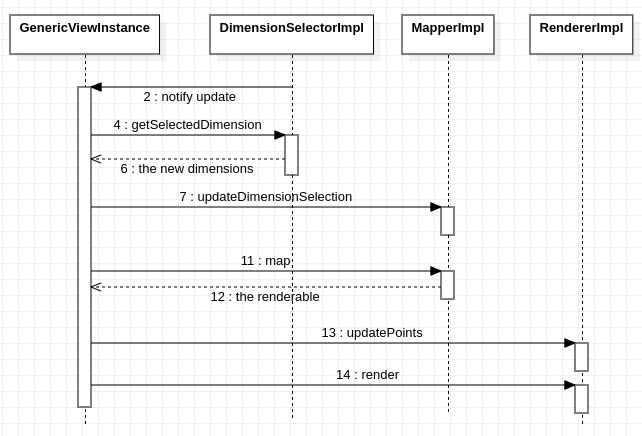
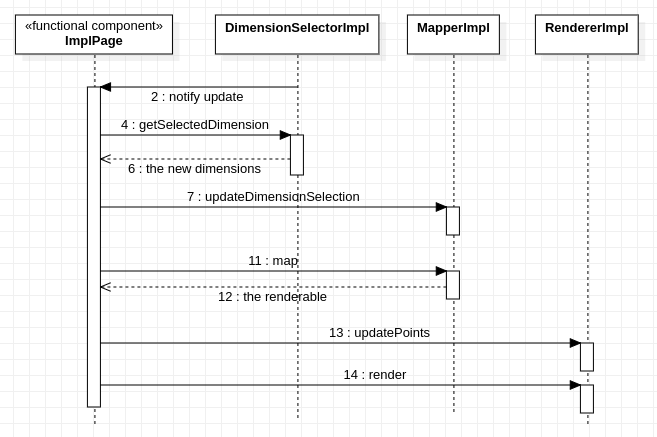
update importanti specifica architetturale

diff --git a/documenti/Specifica_Architetturale/sezioni/architettura.tex b/documenti/Specifica_Architetturale/sezioni/architettura.tex
@@ -58,18 +58,20 @@ la nostra architettura risulta essere standard, senza perdere di flessibilità.
   \caption{Dimostrazione di composizione generica}
 \end{figure}
 
-Il view composer date delle higher-order functions in grado di costruire i vari
-componenti necessari, le preferenze, le dimensioni, un riferimento al dataset e
-un riferimento al transformer sarà in grado di posizionare tutti i componenti
-necessari per l'intreazione con l'utente ed effettuare il rendering della vista
-e di orchestrarli quando avviene un cambiamento.
+Questo permette di riutilizzare al massimo tutta la logica comune (grazie al fatto
+che le varie componenti implementano tutte una interfaccia) non si è deciso di usare
+il pattern \texttt{TemplateMethod} in quanto i componenti di react devono essere
+funzioni (I class components sono deprecati).
+
+Risulta estremamente flessibile anche nel caso si voglia cambiare anche un solo
+componente ad esempio fornire un dimension selector sullo ScatterPlot.
 
 \begin{figure}[h!]
   \centering
   \includegraphics[scale=0.55]{../../assets/classi_uml/interazione_gw.png}
   \caption{Dimostrazione dell'orchestrazione dell' aggiornamento delle
-    dimensioni da parte di generic view, ovviamente per semplcità è stato
-    trattato dimension selector come un unico componente}
+    dimensioni da parte di generic view, ovviamente per semplcità sono riportate
+    le solo i modelli e non anche le loro view e viewmodel.}
 \end{figure}
 
 \subsection{Stato dell' applicazione}
@@ -86,16 +88,39 @@ funzioni che trasformano un campo di una entry del dataset in qualcosa che il
 renderer è in grado di disegnare). \\
 Esso espone 2 interfacce così da segregarne l'uso, una è destinata alla ricerca di
 trasformazioni (TransformationQuerryable) e l'altra al riferimento delle stesse tramite
-signature (TransformationProvider).
-\begin{figure}[h!]
+signature (TransformationProvider). \\
+\begin{figure}[H]
   \centering
   \includegraphics[scale=0.65]{../../assets/classi_uml/modeltransfomer.png}
 \end{figure}
+Questo modella il \texttt{Repository} che si occupa di eseguire query
+basate su constraints (e.s. Trasformazioni che possono trasformare un intero
+in un colore) quindi \\ \texttt{TransformationQuerryable} o in base all'id
+\texttt{TransformationProvider}, non sono state implementante altre operazioni
+tipiche \texttt{CRUD} in quanto non risultano essere necessarie e avrebbero
+solo aumentato la complessità del codice senza un motivo valido.
 
 \subsubsection{Dataset}
 Il dataset$^{G}$ raggruppa i dati caricati dall'utente in una collezione di
 \texttt{DatasetEntry} che non sono altro che una collezione di coppie nome del
 campo e valore (uno storable type). \\
+\begin{figure}[H]
+  \centering
+  \includegraphics[scale=0.65]{../../assets/classi_uml/datasetentrypng.png}
+\end{figure}
+Tramite la modellazione tramite sumtype e l'utilizzo di typelevel function
+possiamo operare su un dataset eterogeneo mantenedo comunque typesafety.
+\begin{verbatim}
+  export type StorableTypeToRepr<T extends StorableType>
+    = T extends StorableType.Int ? Int
+      : T extends StorableType.String ? string
+        : T extends StorableType.Date ? Date
+          : T extends StorableType.Ip ? string
+            : LoginType;
+\end{verbatim}
+Esempio di typelevel function che trasforma una istanza dell'enum
+\texttt{StorableType} nel tipo che rappresenta.
+\\
 
 \noindent
 Il dataset non è altro che un insieme di \texttt{DatasetEntry} che rappresentano
@@ -103,6 +128,12 @@ una riga del dataset in un qualsiasi momento dell' elaborazione, una entry è un
 insieme di field accompagnati dal loro tipo così da poter mostrare all'utente
 solo opzioni sensate di rendering all'utente, il dataset espone la sua signature
 cioè i suoi campi e loro tipo così da permettere introspezione su di esso.\\
+
+\begin{figure}[h!]
+  \centering
+  \includegraphics[scale=0.55]{../../assets/classi_uml/dataset.png}
+  \caption{Dataset e DatasetEntry}
+\end{figure}
 
 \noindent
 Per mettere l'estrazione di dati derivati il dataset espone un metodo di map,
@@ -117,6 +148,11 @@ nascondere l'operazione dietro una interfaccia \texttt{DatasetParser}, questo
 tipo di architettura risulterà anche molto flessibile in quanto potrà anche
 essere parallelizzata facilmente in formati in cui il contesto è la singola
 linea tipo \texttt{CSV} aggregandone più diversi.
+\begin{figure}[h!]
+  \centering
+  \includegraphics[scale=0.55]{../../assets/classi_uml/datasetparser.png}
+  \caption{DatasetParser}
+\end{figure}
 
 \paragraph{Caricamento del Dataset:}
 Sempre seguendo la stessa filosofia del parsing anche il caricamento del dataset
@@ -127,17 +163,24 @@ futuro si potrebbe anche creare un Dataset Provider anche per lo storage locale 
 Browser. Tutte queste ovviamente utilizzano la dependency injection per rimanere
 agnostici al formato del dataset ricevendo una istanza di \texttt{DatasetParser}
 alla costruzione.
+\begin{figure}[h!]
+  \centering
+  \includegraphics[scale=0.55]{../../assets/classi_uml/datasetprovider.png}
+  \caption{DatasetProvider}
+\end{figure}
+Ovviamente le operazioni sono trattate come asincrone in modo da poi non
+bloccare il rendering della user interface.
 
 \subsubsection{Viste utilizzabili dall'utente}
 Le viste sono il raggruppamento delle preferenze del grafico e delle dimensioni
-scelte dall'utente durante la fase esplorativa. Le viste all'interno dell'
-applicazione sono identificate tutte da un nome univoco scelto dall'utente al
-momento della creazione o della modifica di una di esse. Esse sono manipolabili
-tramite la classe \texttt{ViewRepository} che permette di selezionare, eliminare
-e creare nuove viste tramite il loro identificatore univoco. Tramite l'utilizzo
-dei \texttt{sumtypes} è possibile utilizzare un unico tipo per rappresentare le
-preferenze e dimensioni di qualsiasi tipo di grafico disponibile all'interno
-dell' applicativo.
+scelte dall'utente durante la fase esplorativa. Le viste sono salvate all'interno
+di \texttt{FullView} che raggruppa più viste differenti come quella dello
+ScatterPlot e Sankey.
+\begin{figure}[h!]
+  \centering
+  \includegraphics[scale=0.55]{../../assets/classi_uml/vister.png}
+  \caption{Viste}
+\end{figure}
 
 \paragraph{Salvataggio e caricamento viste}
 I tipi delle varie viste (Dimensioni e Preferenze) sono agglomerati all'interno
@@ -146,19 +189,78 @@ discriminando il campo \texttt{type}, queste vengono serializzate e
 deserializzare dal formato \texttt{JSON} dalle classi \texttt{ViewSerializer} e
 \texttt{ViewDeserializer}
 
+\begin{figure}[h!]
+  \centering
+  \includegraphics[scale=0.55]{../../assets/classi_uml/viewparser.png}
+  \caption{ViewParser}
+\end{figure}
+
+\begin{figure}[h!]
+  \centering
+  \includegraphics[scale=0.55]{../../assets/classi_uml/viewserializer.png}
+  \caption{ViewSerializer}
+\end{figure}
+
+Inoltre il \texttt{ViewSerializer} espone metodi per permettere alla logica di salvataggio
+di comprendere come costruire il file in cui salvare l'istanza serializzata.
+
+\subsection{Componenti}
+Al cuore di qualsiasi applicativo scritto con la libreria React per tutte le
+funzionalità implementate dal punto di vista di modello (ad esempio: Caricamento e Parsing
+del dataset, caricamento e parsing delle viste create da utente) sono stati creati degli
+appositi functional components sempre sfruttando la dependency injection, alcuni esempi sono:
+\begin{itemize}
+  \item \texttt{LoadDatasetView}
+  \item \texttt{ViewsDownloaderView}
+  \item \texttt{ViewsLoaderView}
+\end{itemize}
+
+\begin{figure}[h!]
+  \centering
+  \includegraphics[scale=0.55]{../../assets/classi_uml/components.png}
+  \caption{Alcuni dei componenti}
+\end{figure}
+
+Questo come si può intuire grazie alla dependency injection oltre a rendere
+facile il testing permette anche di cambiare il comportamento di alcuni componenti
+senza cambiare nulla (es: Dataset in formato JSON e Views in formato CSV).
+
 \subsection{Routing}
 La possibilità di poter cambiare vista selezionata è parte integrante dell'esperienza
 di utilizzo dell' applicativo, il routing è gestito tramite la libreria
-\texttt{react-router} e con la creazione delle varie route (che poi corrisponderanno)
-alle viste caricate dall'utente nell' applicazione.
+\texttt{react-router} e con la creazione delle varie route che permettono all'utente di
+spostarsi tra le varie pagine dell'applicazione mantenendo uno stato valido
 
-Sempre seguendo il pattern mvvm anche il routing seguirà questo pattern:
+\subsection{Composizione elementi di UI}
+Una visione ad alto livello della composizione dei vari elementi di UI, si nota in
+particolare che i vari \texttt{Renderer} non ne fanno parte in quanto non sono
+loro stessi ad essere parti della vista in quanto essi sfruttano un \texttt{div}
+facente parte del \texttt{DOM HTML} sul quale posizionare il render
+fatto tramite \texttt{WebGL}.
+
 \begin{figure}[h!]
   \centering
-  \includegraphics[scale=0.55]{../../assets/classi_uml/viewrepo.png}
-  \caption{Implementazione repository}
+  \includegraphics[scale=0.55]{../../assets/classi_uml/vistaglobale.png}
+  \caption{Alcuni dei componenti}
 \end{figure}
 
+Sono presenti solo i componenti esportati dai vari file \texttt{.tsx} in quanto i vari
+sotto componenti più piccoli non sono interessanti ai fini architetturali e non li si vuole
+esporre in quanto potrebbero creare dipendenze non necessarie.
+
+\subsubsection{Proprietà dello stato globale}
+Lo stato dell'applicazione è gestito tramite gli hook di \texttt{React} per questo è importante
+evidenziare che componenti possiedono, modificano e leggono esso per comprendere la dipendenze
+e quali componenti effettivamente subiscono un render quando c'è un aggiornamento.
+
+I componenti dello stato mutabile sono posseduti dal componente \texttt{App} che poi distribuisce
+i getter e i setter generati dallo \texttt{stateHook} tramite i props dei vari componenti.
+
+Perché non si è utilizzato \texttt{redux} o similari per la gestione dello stato? Lo stato
+non è sufficiente complesso per giustificare l'introduzione di tale complessità extra inoltre
+rende meno chiare le dipendenze (che ora sono facilmente visibili tramite la struttura dei
+vari props) e inoltre non sarebbe typesafe cosa che invece all'interno dell' applicazione
+ci si è impegnati a mantenere.
 
 % \subsection{Diagrammi dei package}
 % \subsection{Diagrammi delle classi}

diff --git a/documenti/Specifica_Architetturale/sezioni/analisi_integrazione.tex b/documenti/Specifica_Architetturale/sezioni/analisi_integrazione.tex
@@ -2,6 +2,7 @@
 \begin{itemize}
     \item Utilizzo dello stereotype \texttt{<<functional component>>} per indicare i componenti di react.
     \item Inserimento delle associazioni solo se esplicitate dello sviluppatore in fase di codifica e non quelle gestite in automatico da MobX.
-    \item Sono presenti solo i diagrammi UML effettivamente necessari alla comprensione dell'architettura.
+    \item Sono presenti solo i diagrammi UML effettivamente necessari alla comprensione dell'architettura e non di tutte cle classi o componenti all'interno della codebase.
     \item Le classi con il suffisso \texttt{Impl} indicano classi di esempio non presenti nella codebase effettiva.
+    \item I sum types sono stati modellati tramite il costrutto UML standard \texttt{\{xor\}}
 \end{itemize}

diff --git a/documenti/Specifica_Architetturale/sezioni/registro_modifiche.tex b/documenti/Specifica_Architetturale/sezioni/registro_modifiche.tex
@@ -7,6 +7,12 @@
 	\textcolor{white}{\textbf{Versione}} & \textcolor{white}{\textbf{Data}} &
 	\textcolor{white}{\textbf{Redattore}} & \textcolor{white}{\textbf{Verificatore}} &
 	\textcolor{white}{\textbf{Approvatore}} & \textcolor{white}{\textbf{Descrizione}}\\
+	\rowcolor[RGB]{216, 235, 171}
+	0.4.17 & 18/06/22 & Alessio Ferrarini & / & / & Stato globale. \\
+	\rowcolor[RGB]{233, 245, 206}
+	0.4.16 & 17/06/22 & Alessio Ferrarini & / & / & Aggiunta composizione elementi UI.\\
+	\rowcolor[RGB]{216, 235, 171}
+	0.4.15 & 13/06/22 & Alessio Ferrarini & / & / & Stesura sezione componenti. \\
 	\rowcolor[RGB]{233, 245, 206}
 	0.4.14 & 10/06/22 & Alessio Ferrarini & / & / & Aggiunte convenzioni.\\
 	\rowcolor[RGB]{216, 235, 171}
